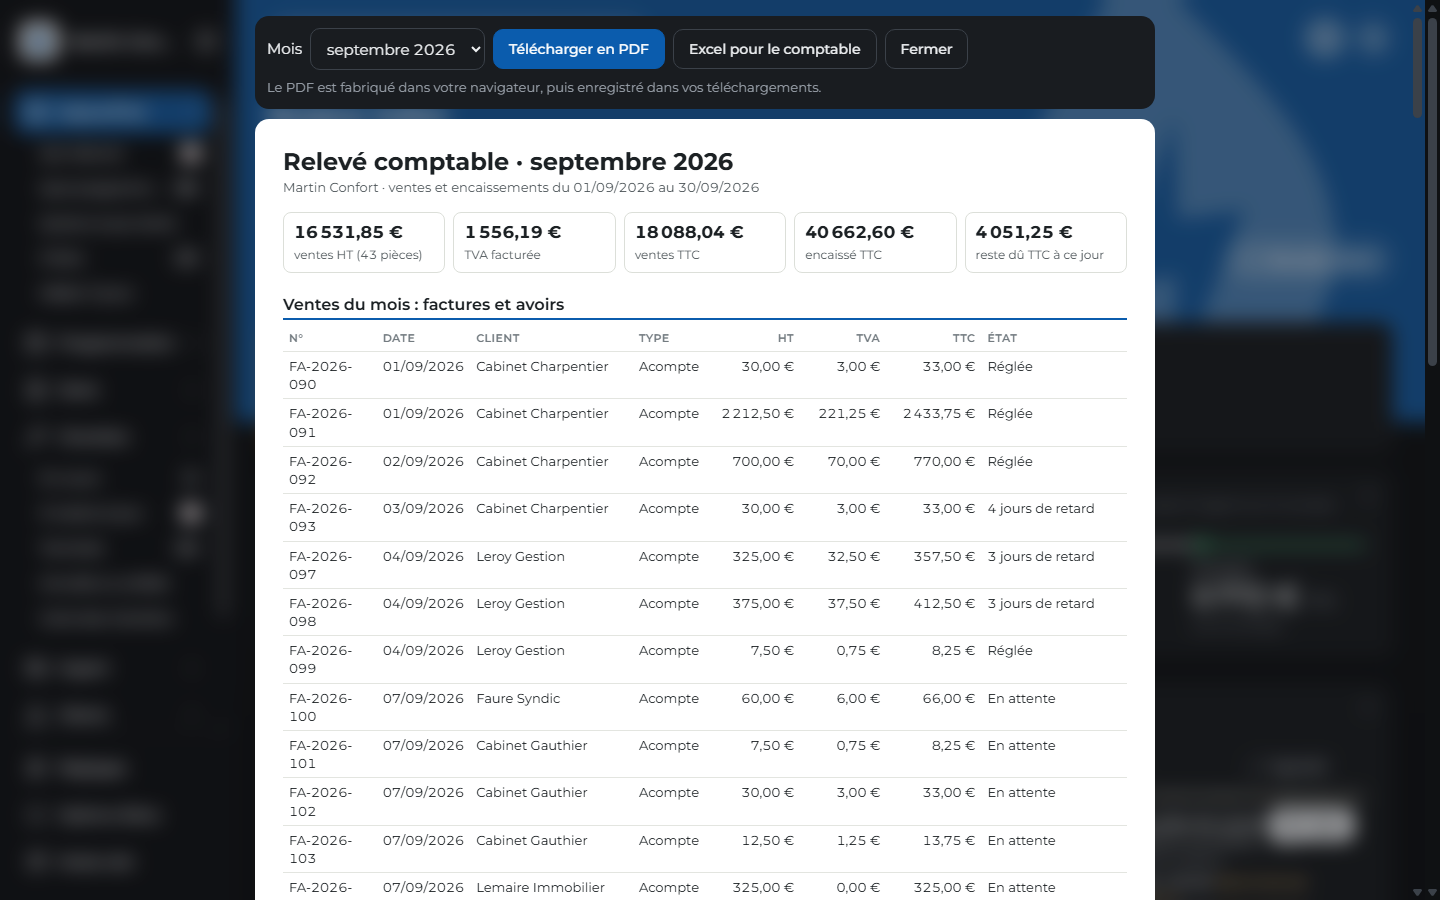
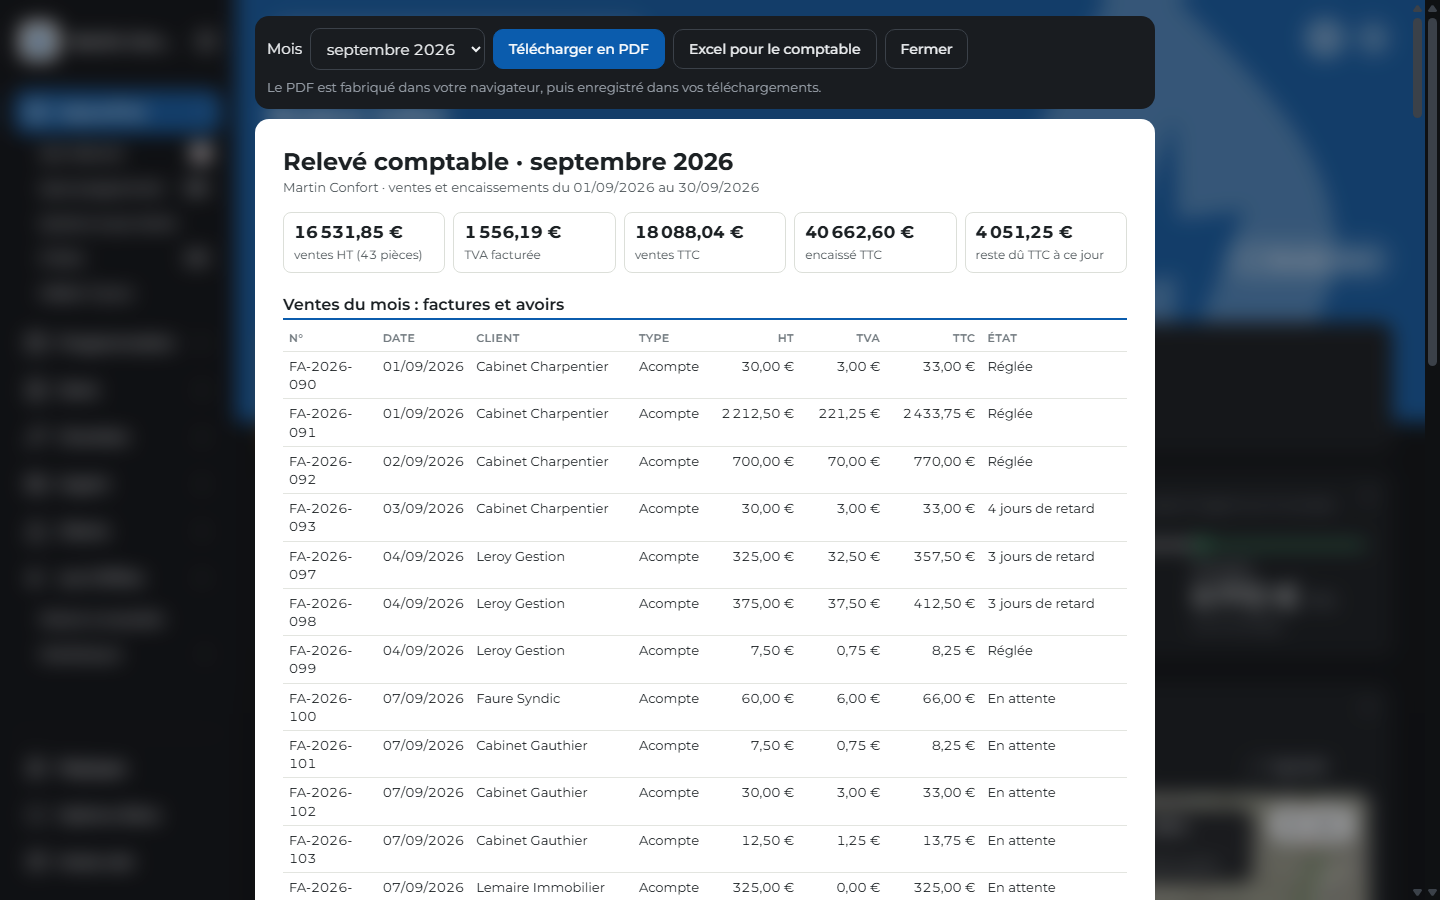
Page Zelus : PDF du releve comptable corrige integre

Changed region(s): [[0.7812, 0.8711, 0.9688, 1.0], [0.125, 0.56, 0.1562, 0.5911], [0.0312, 0.7778, 0.0625, 0.8089]]

diff --git a/src/app/zelus/ZelusClient.jsx b/src/app/zelus/ZelusClient.jsx
@@ -1154,6 +1154,15 @@ export default function ZelusClient() {
             visual={
               <div>
                 <ScrollShot src="releve-comptable-long.png" h={7791} alt="Relevé comptable du mois dans le tableau de bord Zelus" onZoom={setZoom} />
+                <div className="grid grid-cols-2 gap-3 mt-4">
+                  {["releve-comptable-pdf-p1.png", "releve-comptable-pdf-p2.png"].map((f, i) => (
+                    <button key={f} type="button" onClick={() => setZoom({ src: `${IMG}/${f}`, alt: "Relevé comptable en PDF" })}
+                      className={`group relative overflow-hidden rounded-lg bg-white shadow-[0_15px_40px_rgba(0,0,0,0.5)] transition-transform duration-300 hover:-translate-y-1 ${i ? "rotate-1" : "-rotate-1"}`}>
+                      <img src={`${IMG}/${f}`} alt={`Relevé comptable en PDF, page ${i + 1}`} loading="lazy" className="w-full h-auto block aspect-[1240/1754] object-cover object-top" />
+                      <span className="absolute bottom-2 left-2 rounded-full bg-black/75 px-2.5 py-1 text-[11px] text-white">PDF · page {i + 1} / 6</span>
+                    </button>
+                  ))}
+                </div>
                 <div className="flex flex-wrap gap-2 mt-4">
                   {["Télécharger en PDF", "Excel pour le comptable", "13 derniers mois"].map((x) => (
                     <span key={x} className="rounded-full border border-white/10 bg-white/5 px-3 py-1.5 text-sm text-gray-300">{x}</span>
